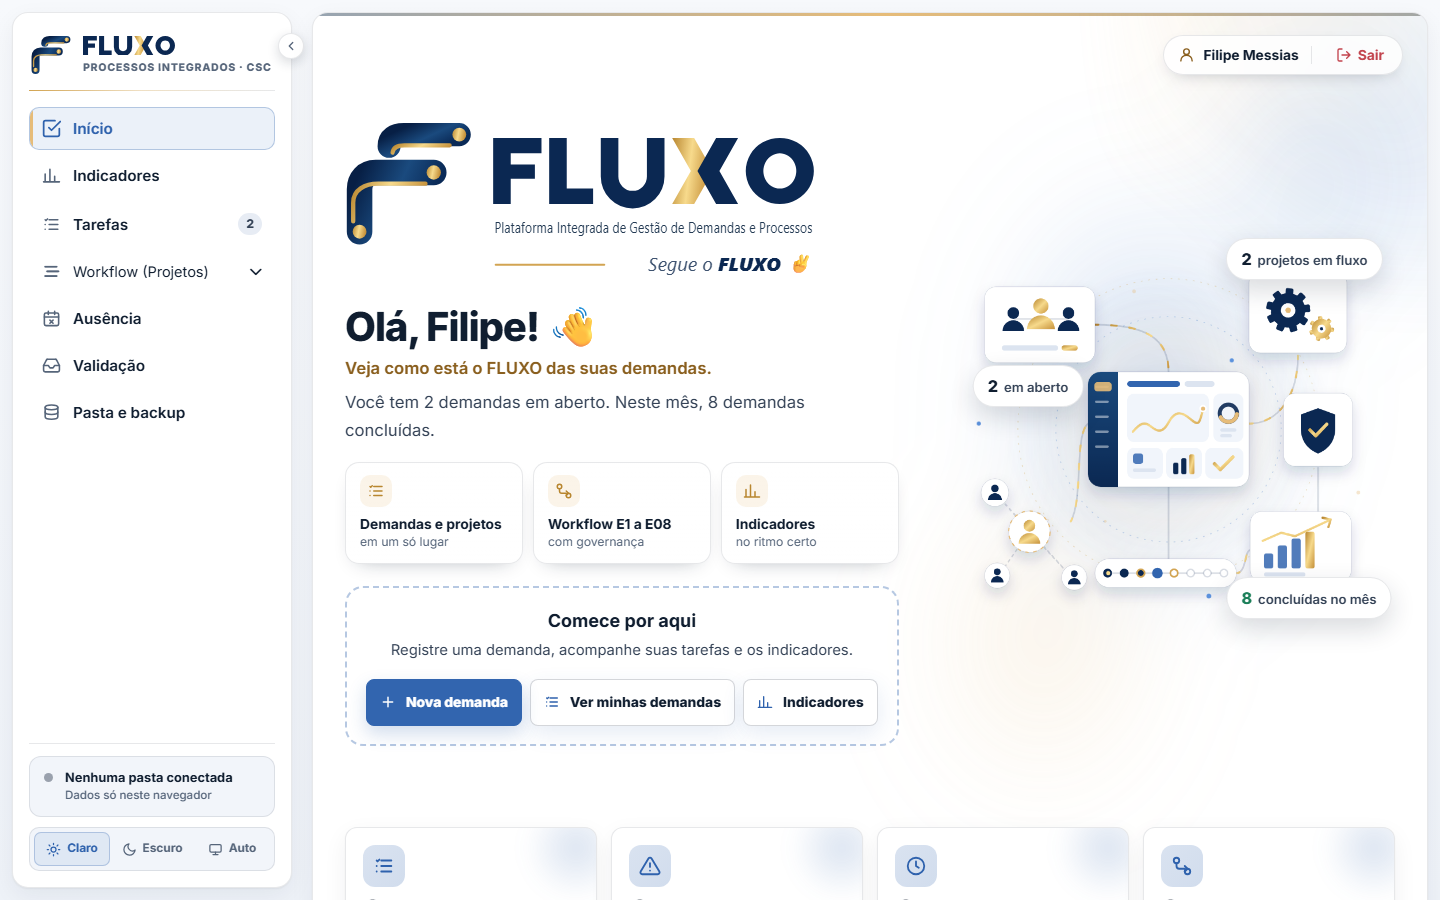
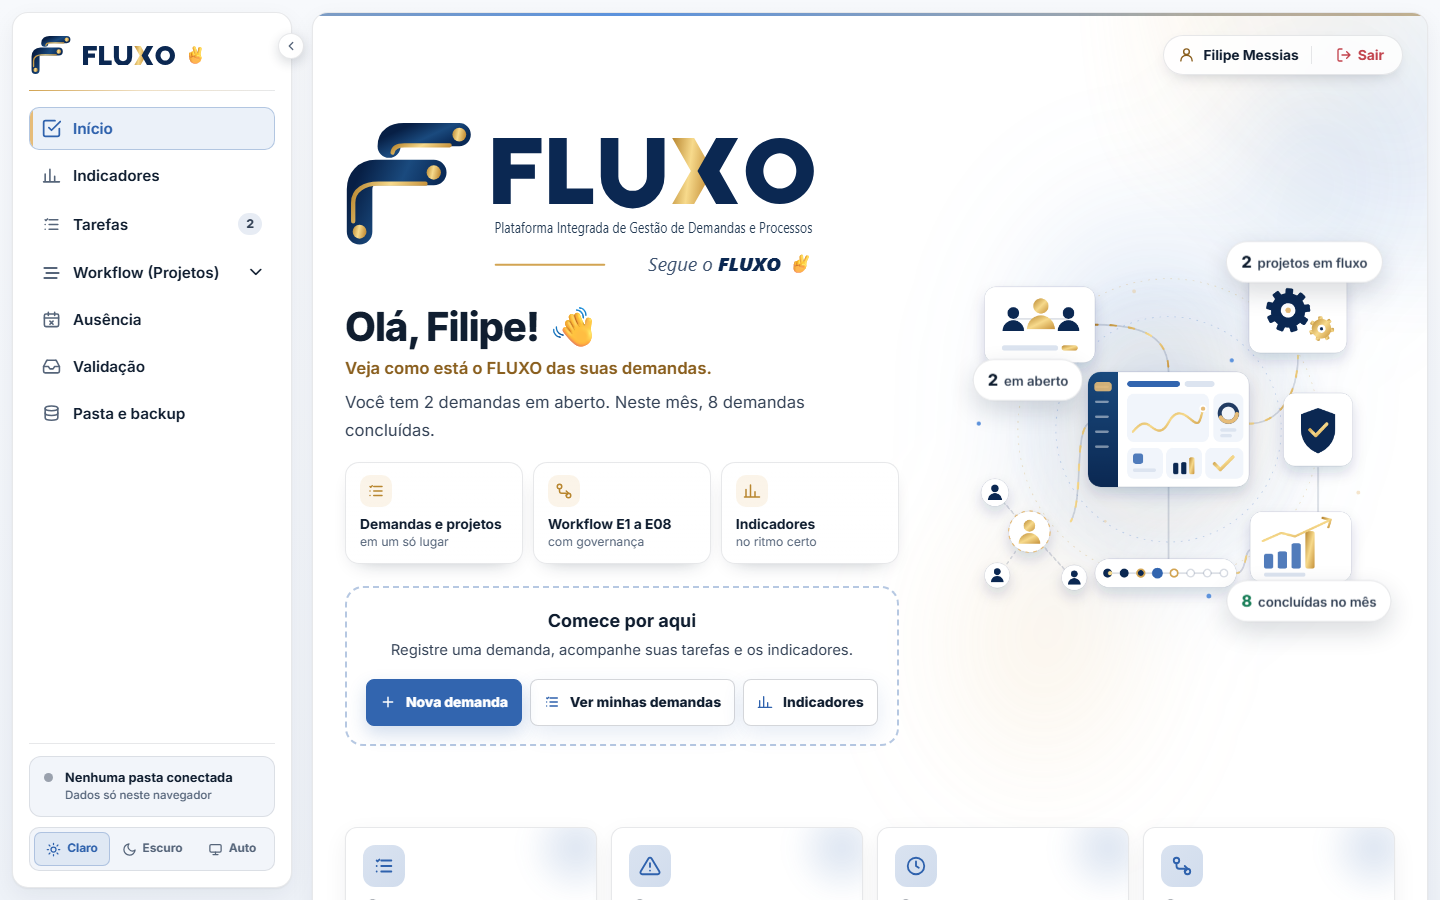
feat: menu com FLUXO ✌, grupo Workflow com a mesma letra e nova assinatura
- Menu: o título "Workflow (Projetos)" usa a mesma fonte, peso e cor dos
  demais itens (o botão herdava a letra do navegador).
- Marca do menu: FLUXO ✌ no lugar de "Processos Integrados · CSC", que
  passa ao título ao passar o mouse.
- Assinatura do Início em cápsula: palavra FLUXO oficial, filete dourado
  e "Sua gestão no ritmo certo.".

diff --git a/02-usuario/app/fluxo.css b/02-usuario/app/fluxo.css
@@ -175,6 +175,9 @@ body.sidebar-collapsed .sidebar-brand-text { display: none; }
 .nav-link::before { background: var(--fx-brand); width: 3px; border-radius: 0 3px 3px 0; }
 .nav-group-title.active:not(:hover) { background: transparent; border-color: transparent; }
 .nav-group.open > .nav-group-title { color: var(--fx-ink); }
+/* O título do grupo é um botão: herda a mesma letra, peso e cor dos demais itens do menu */
+.nav-group-title { color: var(--fx-ink); font-family: inherit; font-size: .95rem; font-weight: 600; line-height: inherit; }
+.nav-group-title .nav-fa { font-size: 1rem; width: 19px; text-align: center; }
 .nav-count { background: var(--fx-surface-3); color: var(--fx-ink-2); }
 .nav-count.late, .nav-count.bellc { background: var(--fx-danger); color: #fff; }
 .sync-card { background: var(--fx-surface-2); border-color: var(--fx-line); border-radius: var(--fx-radius); }
@@ -564,3 +567,16 @@ dialog[open] { animation: fxPop var(--fx-base) var(--fx-ease); }
   .close-btn:not([hidden]) ~ .fx-topo { right: 64px; }
   #fxUserName { max-width: 120px; }
 }
+
+/* ============ 14. Marca do menu com ✌ e assinatura do Início ============ */
+.sidebar-brand-text { display: flex; flex-direction: row; align-items: center; gap: 8px; }
+.sidebar-brand-text .fx-brand-sub { font-size: 1.15rem; letter-spacing: 0; text-transform: none; line-height: 1; transform-origin: 70% 80%; animation: fxAceno 5s ease-in-out 1.5s infinite; }
+@keyframes fxAceno { 0%, 82%, 100% { transform: rotate(0); } 87% { transform: rotate(-12deg); } 93% { transform: rotate(8deg); } }
+/* Assinatura: palavra FLUXO oficial, filete dourado e "Sua gestão no ritmo certo." */
+.fx-assinatura { display: flex; align-items: center; justify-content: center; flex-wrap: wrap; gap: 10px 14px; width: fit-content; max-width: 100%; margin: 26px auto 4px; padding: 12px 22px; border: 1px solid var(--fx-line); border-radius: 999px; background: rgba(var(--fx-surface-rgb), .7); backdrop-filter: blur(6px); box-shadow: 0 10px 26px -18px rgba(16, 30, 48, .45); text-transform: none; letter-spacing: 0; font-size: .92rem; color: var(--fx-ink-2); }
+.fx-assinatura-marca { display: inline-flex; line-height: 0; }
+.fx-assinatura-marca .fx-wordmark { height: 15px; width: auto; }
+.fx-assinatura-sep { width: 28px; height: 2px; border-radius: 2px; background: linear-gradient(90deg, rgba(210, 164, 82, 0), #D2A452, rgba(210, 164, 82, 0)); }
+.fx-assinatura-texto { font-style: italic; }
+.fx-assinatura-texto b { font-style: normal; font-weight: 700; color: var(--fx-ink); }
+@media (prefers-reduced-motion: reduce) { .fx-brand-sub { animation: none; } }

diff --git a/02-usuario/app/pgd.js b/02-usuario/app/pgd.js
@@ -4430,7 +4430,8 @@ function renderNav() {
   $('#brandName').title = 'FLUXO · Plataforma Integrada de Gestão de Demandas e Processos · ' + (rq ? 'Solicitações' : cfg.mode === 'gestao' ? 'Gestão financeira' : cfg.mode === 'coordenacao' ? 'Coordenação' : isSup ? (SUBST ? 'Substituição da supervisão' : 'Supervisão') : 'Minhas demandas');
   const fxUsuario = isReader() ? `${cfg.name || ''}${cfg.mode === 'coordenacao' && coordCtx ? ' · ' + coordCtx.nome : cfg.mode === 'gestao' ? ' · Área financeira' : ''}`
     : rq && cfg.mode === 'solicitante' ? `${rq.nome} · ${rq.papel === 'coordenacao' ? 'Coordenação' : 'Supervisão'}` : isSup ? (SUBST ? `${actor().nome} · substituição` : (window.SGPI_PERFIS && window.SGPI_PERFIS.ler() || {}).nome || supName()) : `${cfg.name || 'Colaborador'}${MULTI && wsCur() ? ' · ' + wsCur().label : supCtx ? ' · ' + supTitle(supCtx) : ''}`;
-  $('#brandSub').textContent = 'Processos Integrados · CSC';
+  $('#brandSub').textContent = '✌';
+  $('#brandSub').title = 'Segue o FLUXO · Processos Integrados · CSC';
   $('#fxUserName').textContent = fxUsuario;
   $('#fxUserName').title = fxUsuario;
   document.title = (late ? `(${late}) ` : '') + 'FLUXO · ' + (isSup ? 'Supervisão' : 'Analista');
@@ -4628,7 +4629,7 @@ function renderHome() {
     </section>
     ${extra ? `<div class="home-extra">${extra}</div>` : ''}
     <div class="feature-grid">${cards}</div>
-    <p class="fx-assinatura">FLUXO · Sua gestão no ritmo certo.</p>`;
+    <p class="fx-assinatura"><span class="fx-assinatura-marca">${FX_PALAVRA}</span><span class="fx-assinatura-sep" aria-hidden="true"></span><span class="fx-assinatura-texto">Sua gestão no <b>ritmo certo</b>.</span></p>`;
 }
 function bindSidebarToggle() {
   const key = NS + ':menuRecolhido', btn = $('#sidebarCollapse');

diff --git a/02-usuario/app/marca/README.md b/02-usuario/app/marca/README.md
@@ -41,7 +41,7 @@ A palavra FLUXO é desenhada como vetor (não é texto em fonte). Por isso apare
 
 | Local | Versão da marca |
 | --- | --- |
-| Menu lateral expandido | Sem cartão: símbolo + palavra FLUXO + "Processos Integrados · CSC" alinhados, com um filete dourado separando do menu. O botão de recolher é um círculo discreto na borda do menu |
+| Menu lateral expandido | Sem cartão: símbolo + palavra FLUXO + ✌ (que acena de tempos em tempos; "Processos Integrados · CSC" fica no título ao passar o mouse), com um filete dourado separando do menu. O botão de recolher é um círculo discreto na borda do menu |
 | Barra do topo direito | Nome do usuário conectado (dinâmico) | Sair |
 | Menu lateral recolhido | Só o símbolo, centralizado; o botão de abrir continua na borda |
 | Início (analista e supervisão) | Capa de largura total. À esquerda: logo completa com descrição e slogan, saudação, resumo, três cartões de destaque e a área "Comece por aqui". À direita: o ecossistema de gestão (vetor animado) com etiquetas de números reais. Os cartões de indicador vêm abaixo |
